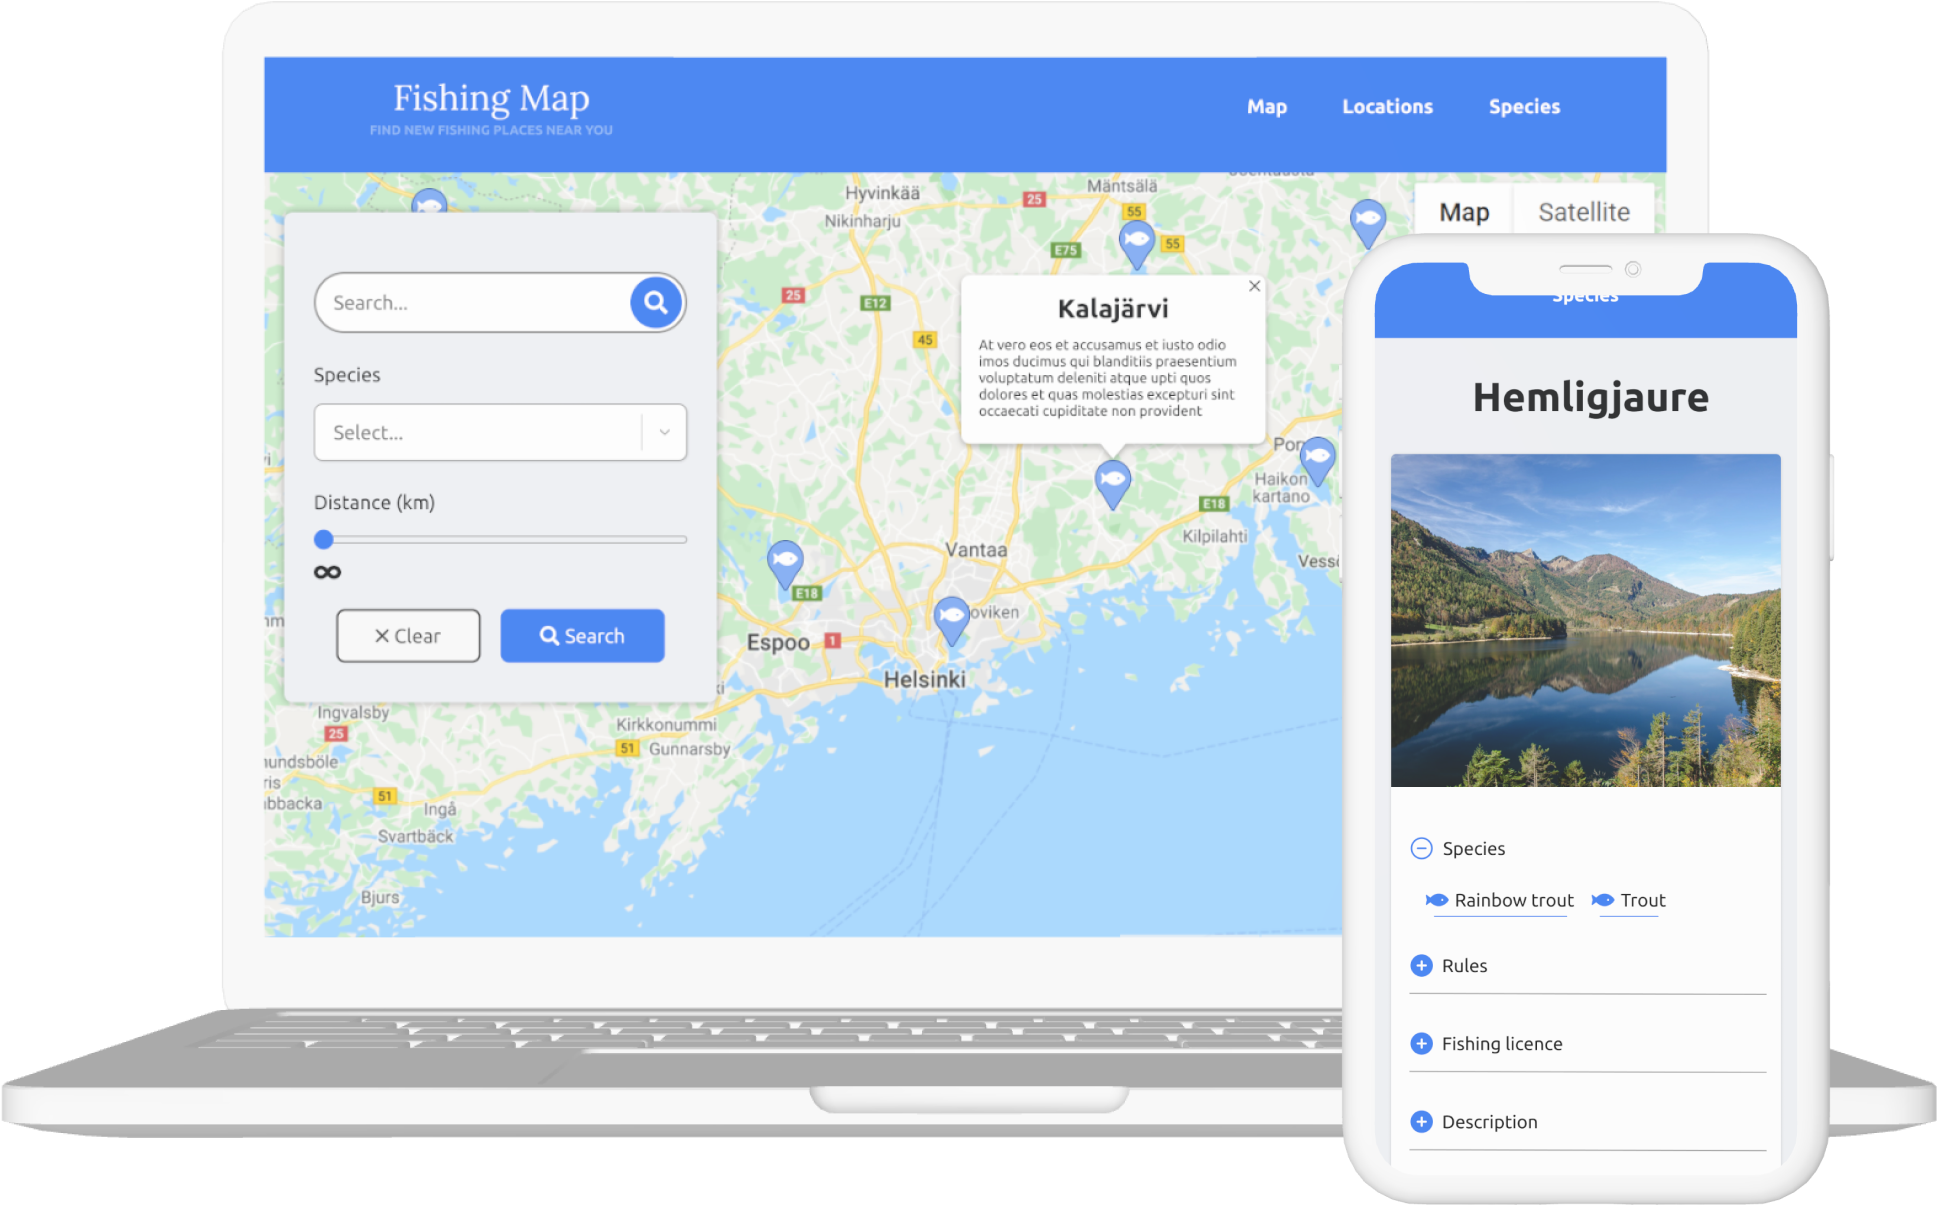
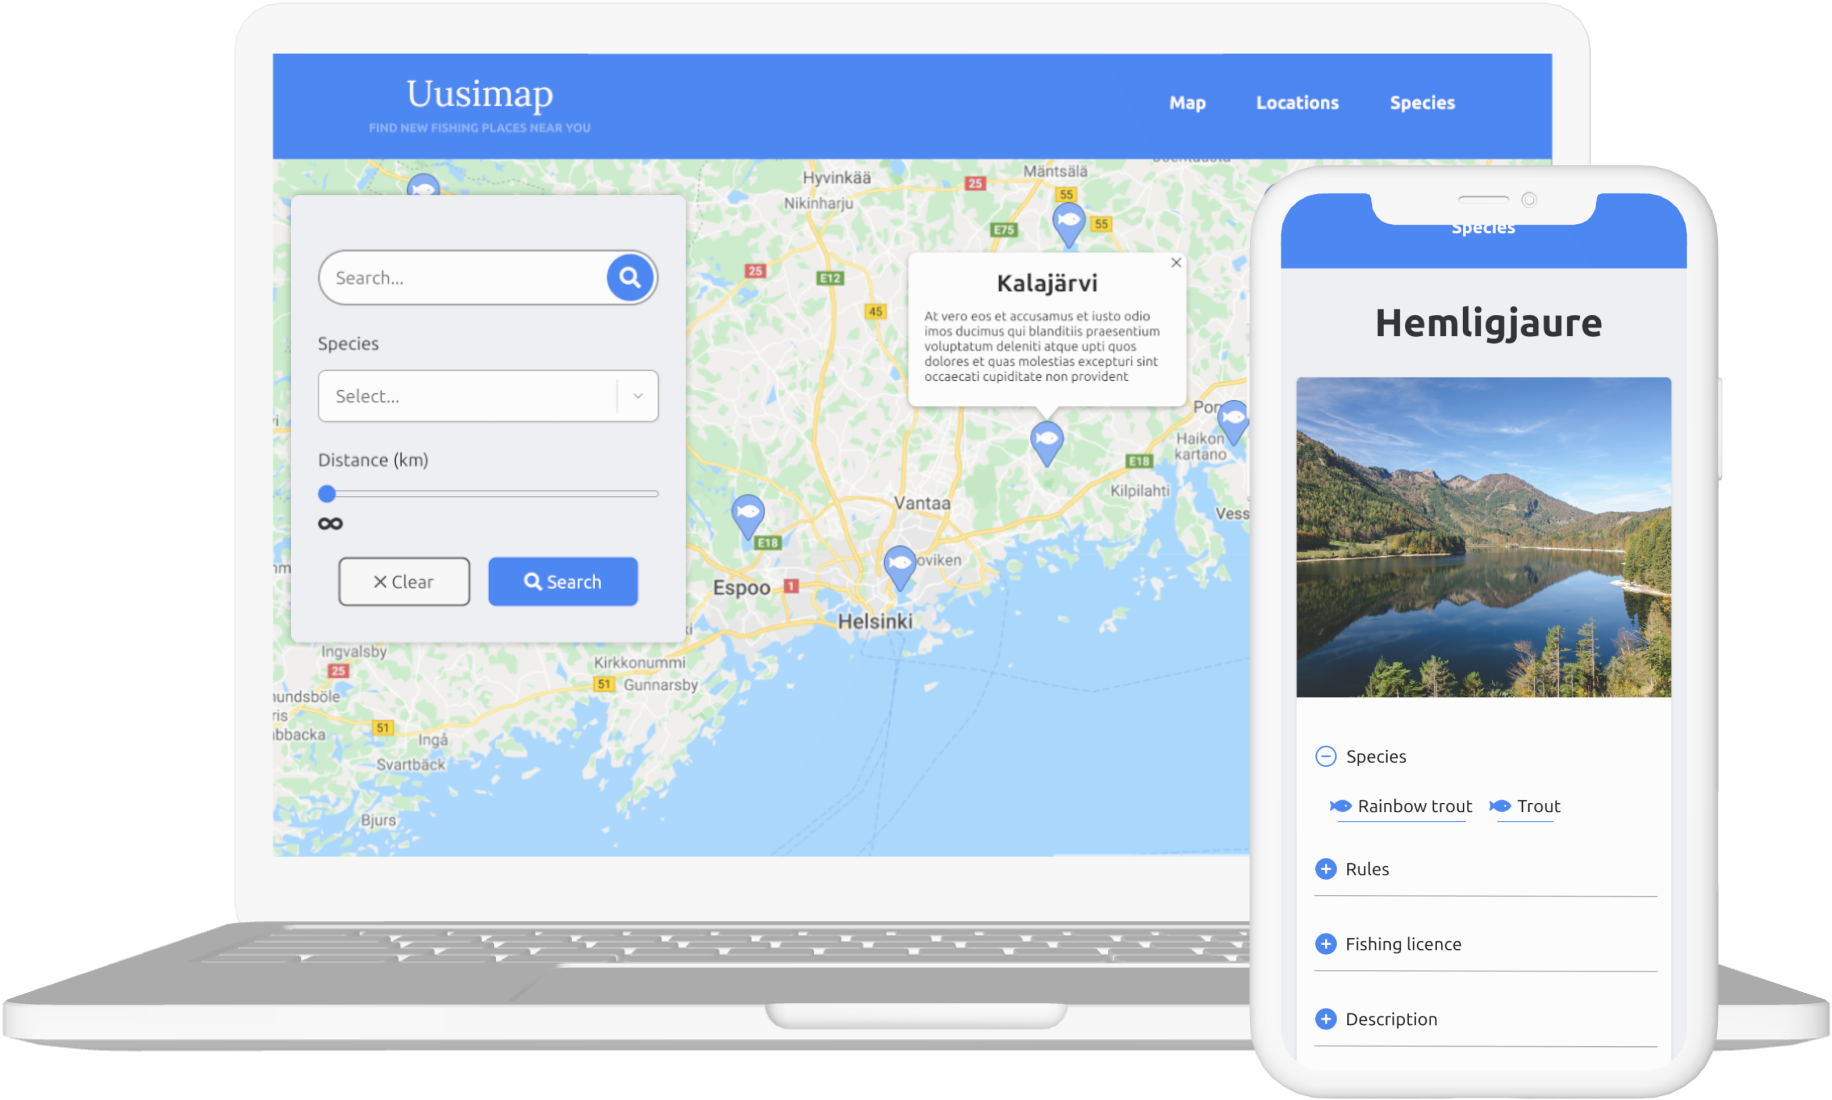
Changed title and landing page images

diff --git a/src/pages/landingPage/LandingPage.scss b/src/pages/landingPage/LandingPage.scss
@@ -18,7 +18,7 @@
         font-weight: 700;
         text-align: center;
         line-height: 1.3;
-        margin: 0 0 .8em 0;
+        margin: 0 0 2rem 0;
     }
 
     .landing-subtitle {
@@ -42,13 +42,13 @@
             flex-direction: row;
             gap: 1em;
             justify-content: space-between;
-            width: 75%;
+            width: 80%;
             padding: 7em 0;
             margin: 0 auto;
         }
 
         .hero-image {
-            width: 405px;
+            width: 450px;
             margin-top: -5em;
         }
     }

diff --git a/src/components/ui/header/Header.scss b/src/components/ui/header/Header.scss
@@ -6,6 +6,7 @@
 
     .container {
         position: relative;
+        align-items: center;
     }
 
     .header-title-container {
@@ -16,8 +17,8 @@
 
     .header-title {
         font-family: 'Lora', serif;
-        font-size: 2rem;
-        margin: 0 0 3px;
+        font-size: 2.25rem;
+        margin: 0 0 5px;
         font-weight: 400;
         margin-top: 0;
     }
@@ -39,7 +40,7 @@
         justify-content: center;
     }
 
-    .nav-list>li {
+    .nav-list > li {
         margin: .5em 0;
     }
 

diff --git a/src/components/ui/header/Header.js b/src/components/ui/header/Header.js
@@ -23,7 +23,7 @@ function Header(props) {
             <div className="container container-flex">
                 <Link to='/'>
                     <div className="header-title-container">
-                        <h1 className="header-title">Fishing Map</h1>
+                        <h1 className="header-title">Uusimap</h1>
                         <p className="header-subtitle">Find new fishing places near you</p>
                     </div>
                 </Link>
